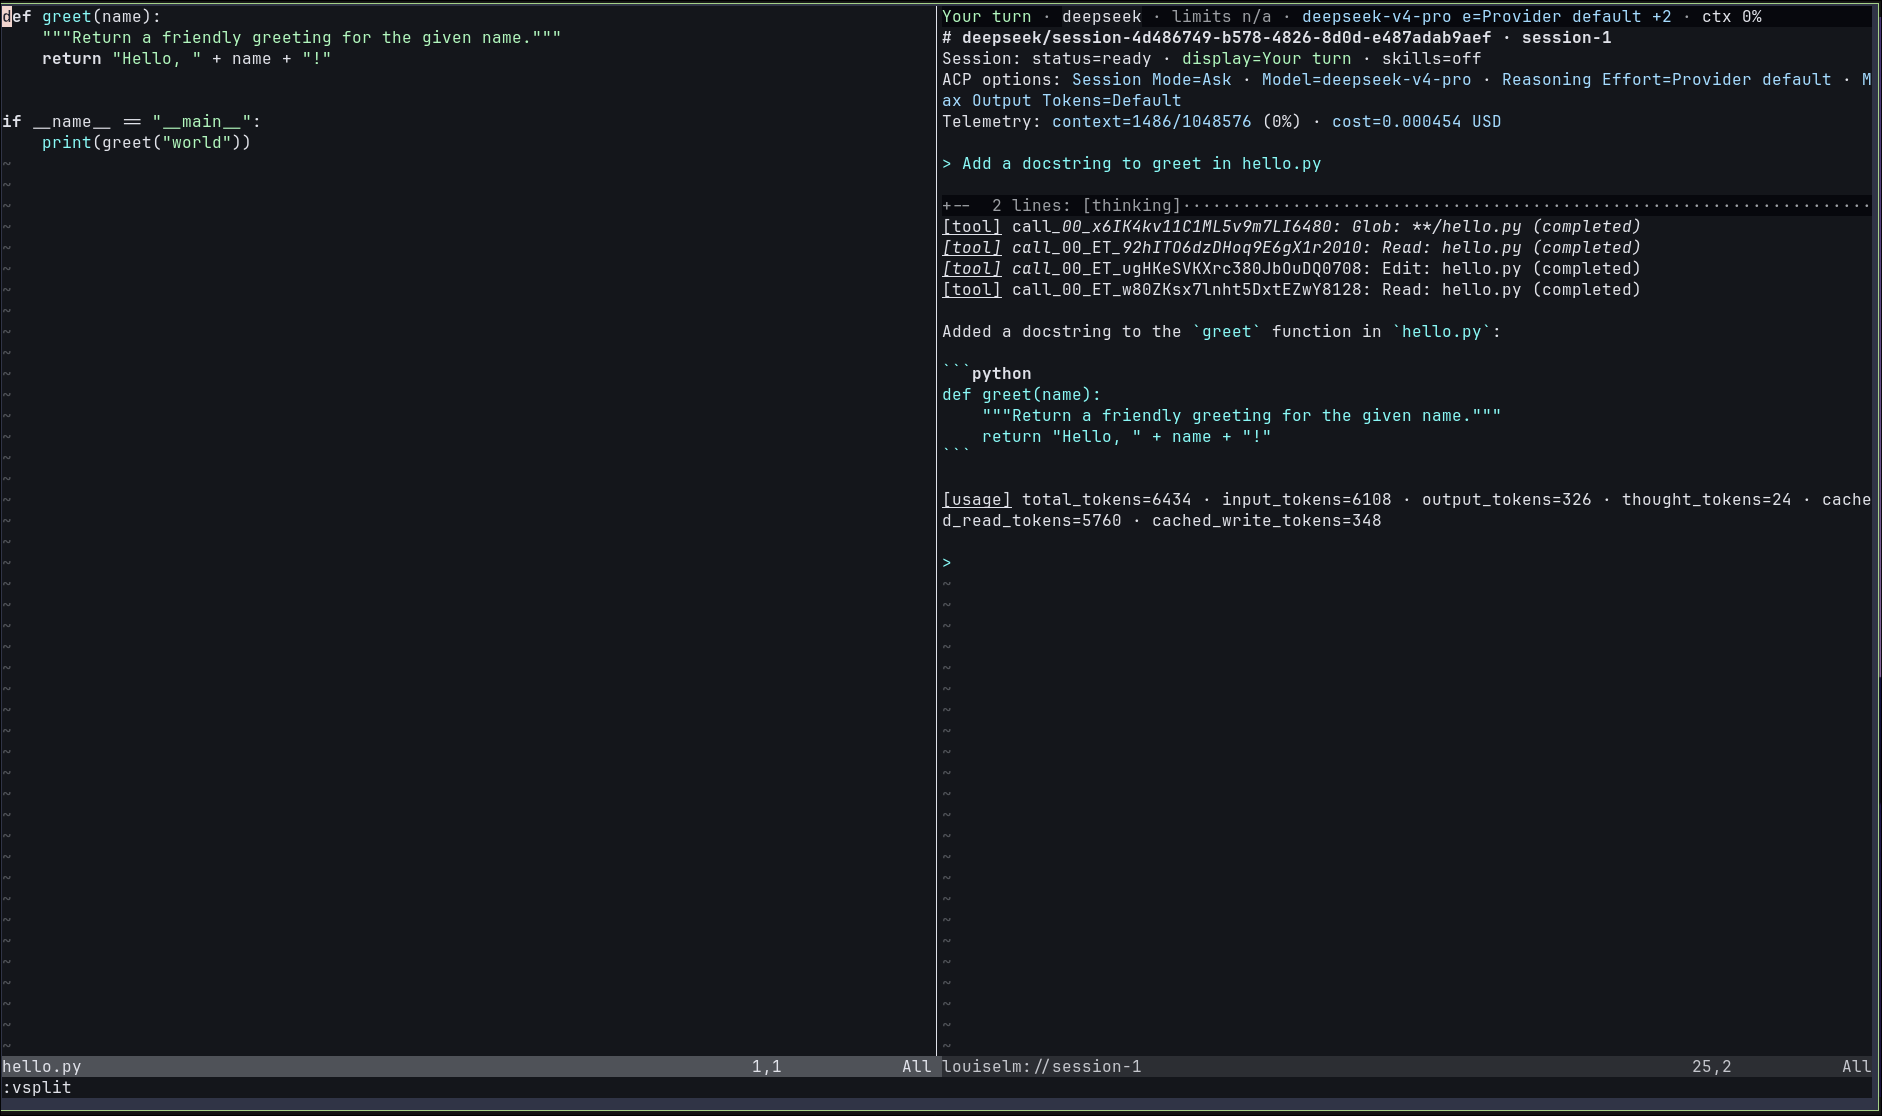
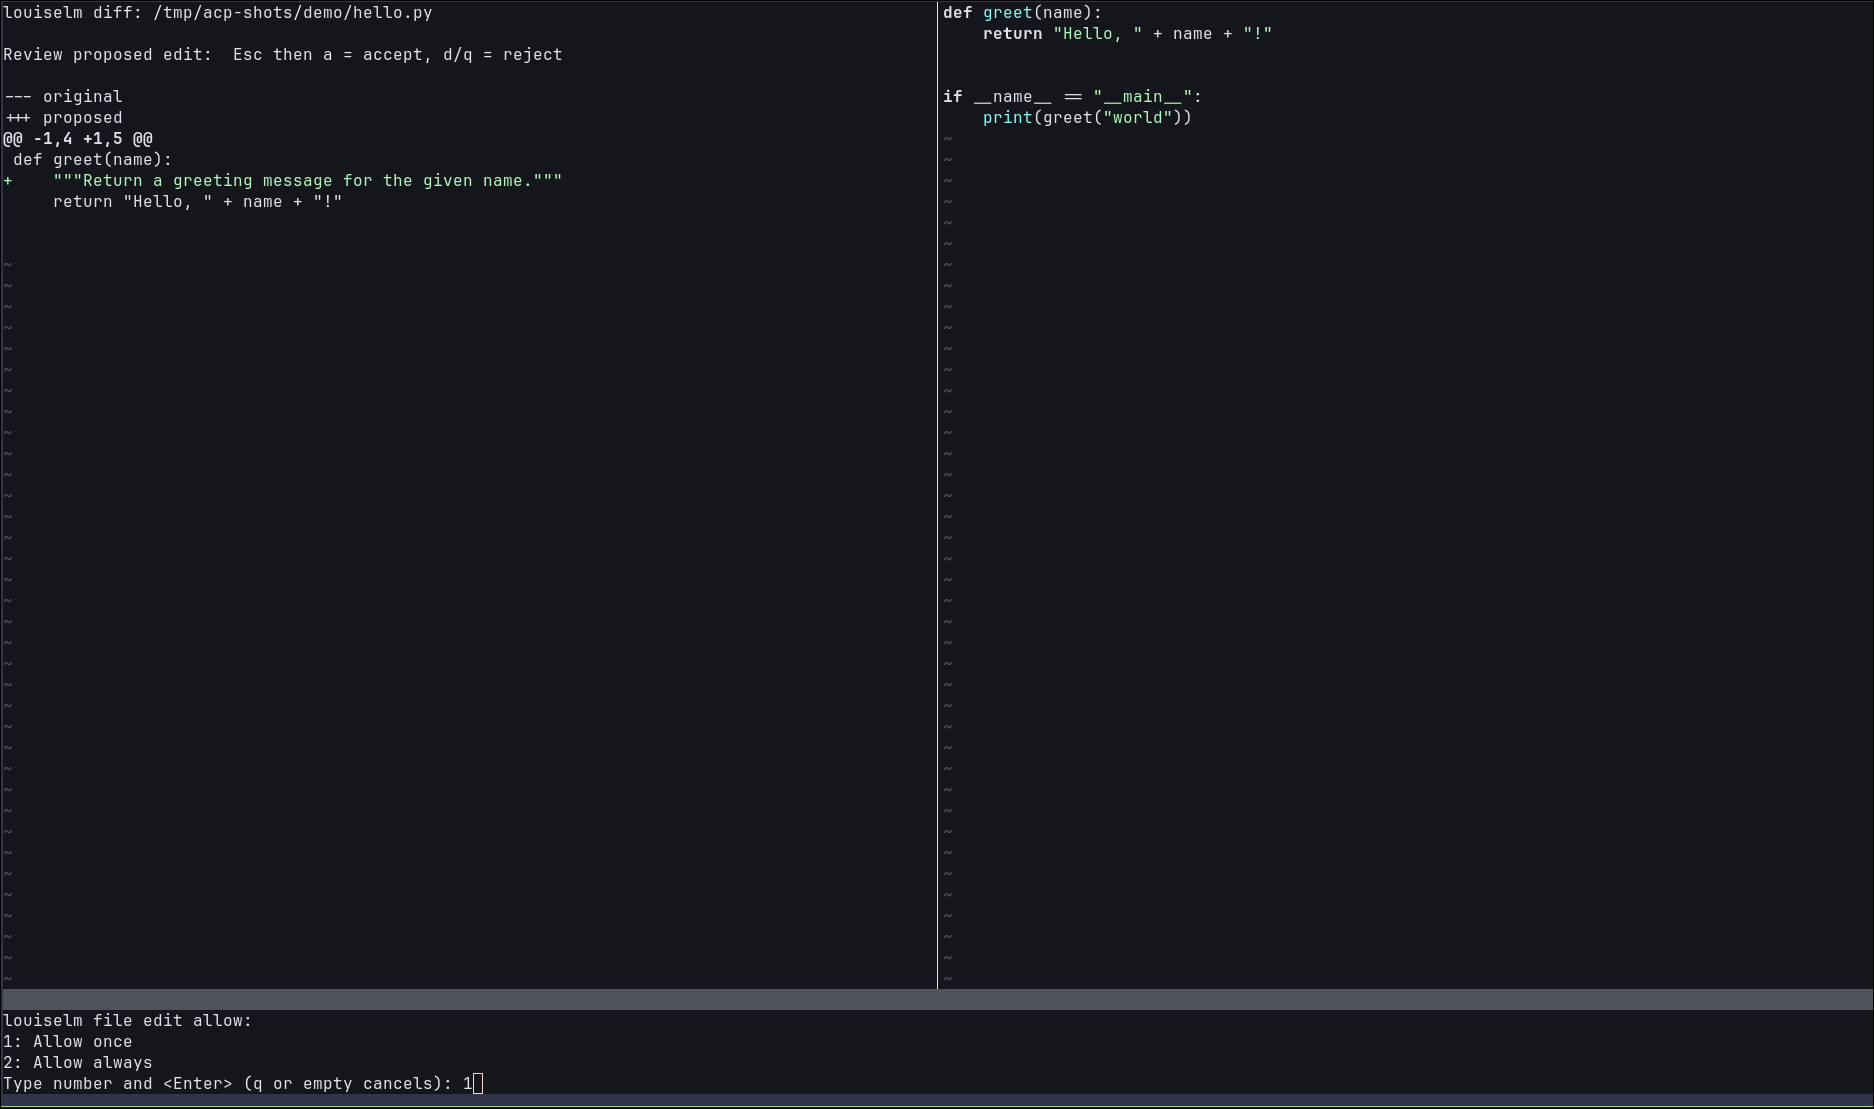
docs: show LouiseLM 0.3.0 edit review in README
LouiseLM plugin-v0.3.0 previews replace-style edits correctly, so the
README hero now shows its review buffer with the docstring-only diff
above the Allow prompt. Pin the snippet check and the Tested-with line
to plugin-v0.3.0.

Refs daa-readme-shots-diff-preview-2x62
Refs louiselm-hht64
Refs claude/b9707559-6fe1-42c2-94af-e24e2b00aec8

diff --git a/README.md b/README.md
@@ -12,7 +12,7 @@ OpenAI-compatible chat API.
 > and embedded file context, not images or audio, and elicitation is not
 > supported ([ACP coverage](docs/acp-coverage.md)).
 
-![LouiseLM chat with acp-llm-adapter: DeepSeek reads hello.py, edits it after approval in Ask mode, and the buffer shows the new docstring](https://raw.githubusercontent.com/euri10/acp-llm-adapter/main/docs/images/louiselm.png)
+![LouiseLM reviewing an acp-llm-adapter edit in Ask mode: the diff adds only a docstring to hello.py, above the Allow once / Allow always prompt](https://raw.githubusercontent.com/euri10/acp-llm-adapter/main/docs/images/louiselm.png)
 
 ## Install
 
@@ -62,7 +62,7 @@ assert(require("louiselm").setup({
 ```
 
 Then `:LouiselmChat`, as in the screenshot above. Tested with LouiseLM
-`plugin-v0.2.0` on Neovim 0.12.5, 2026-10-09.
+`plugin-v0.3.0` on Neovim 0.12.5, 2026-10-09.
 
 ### Zed
 
